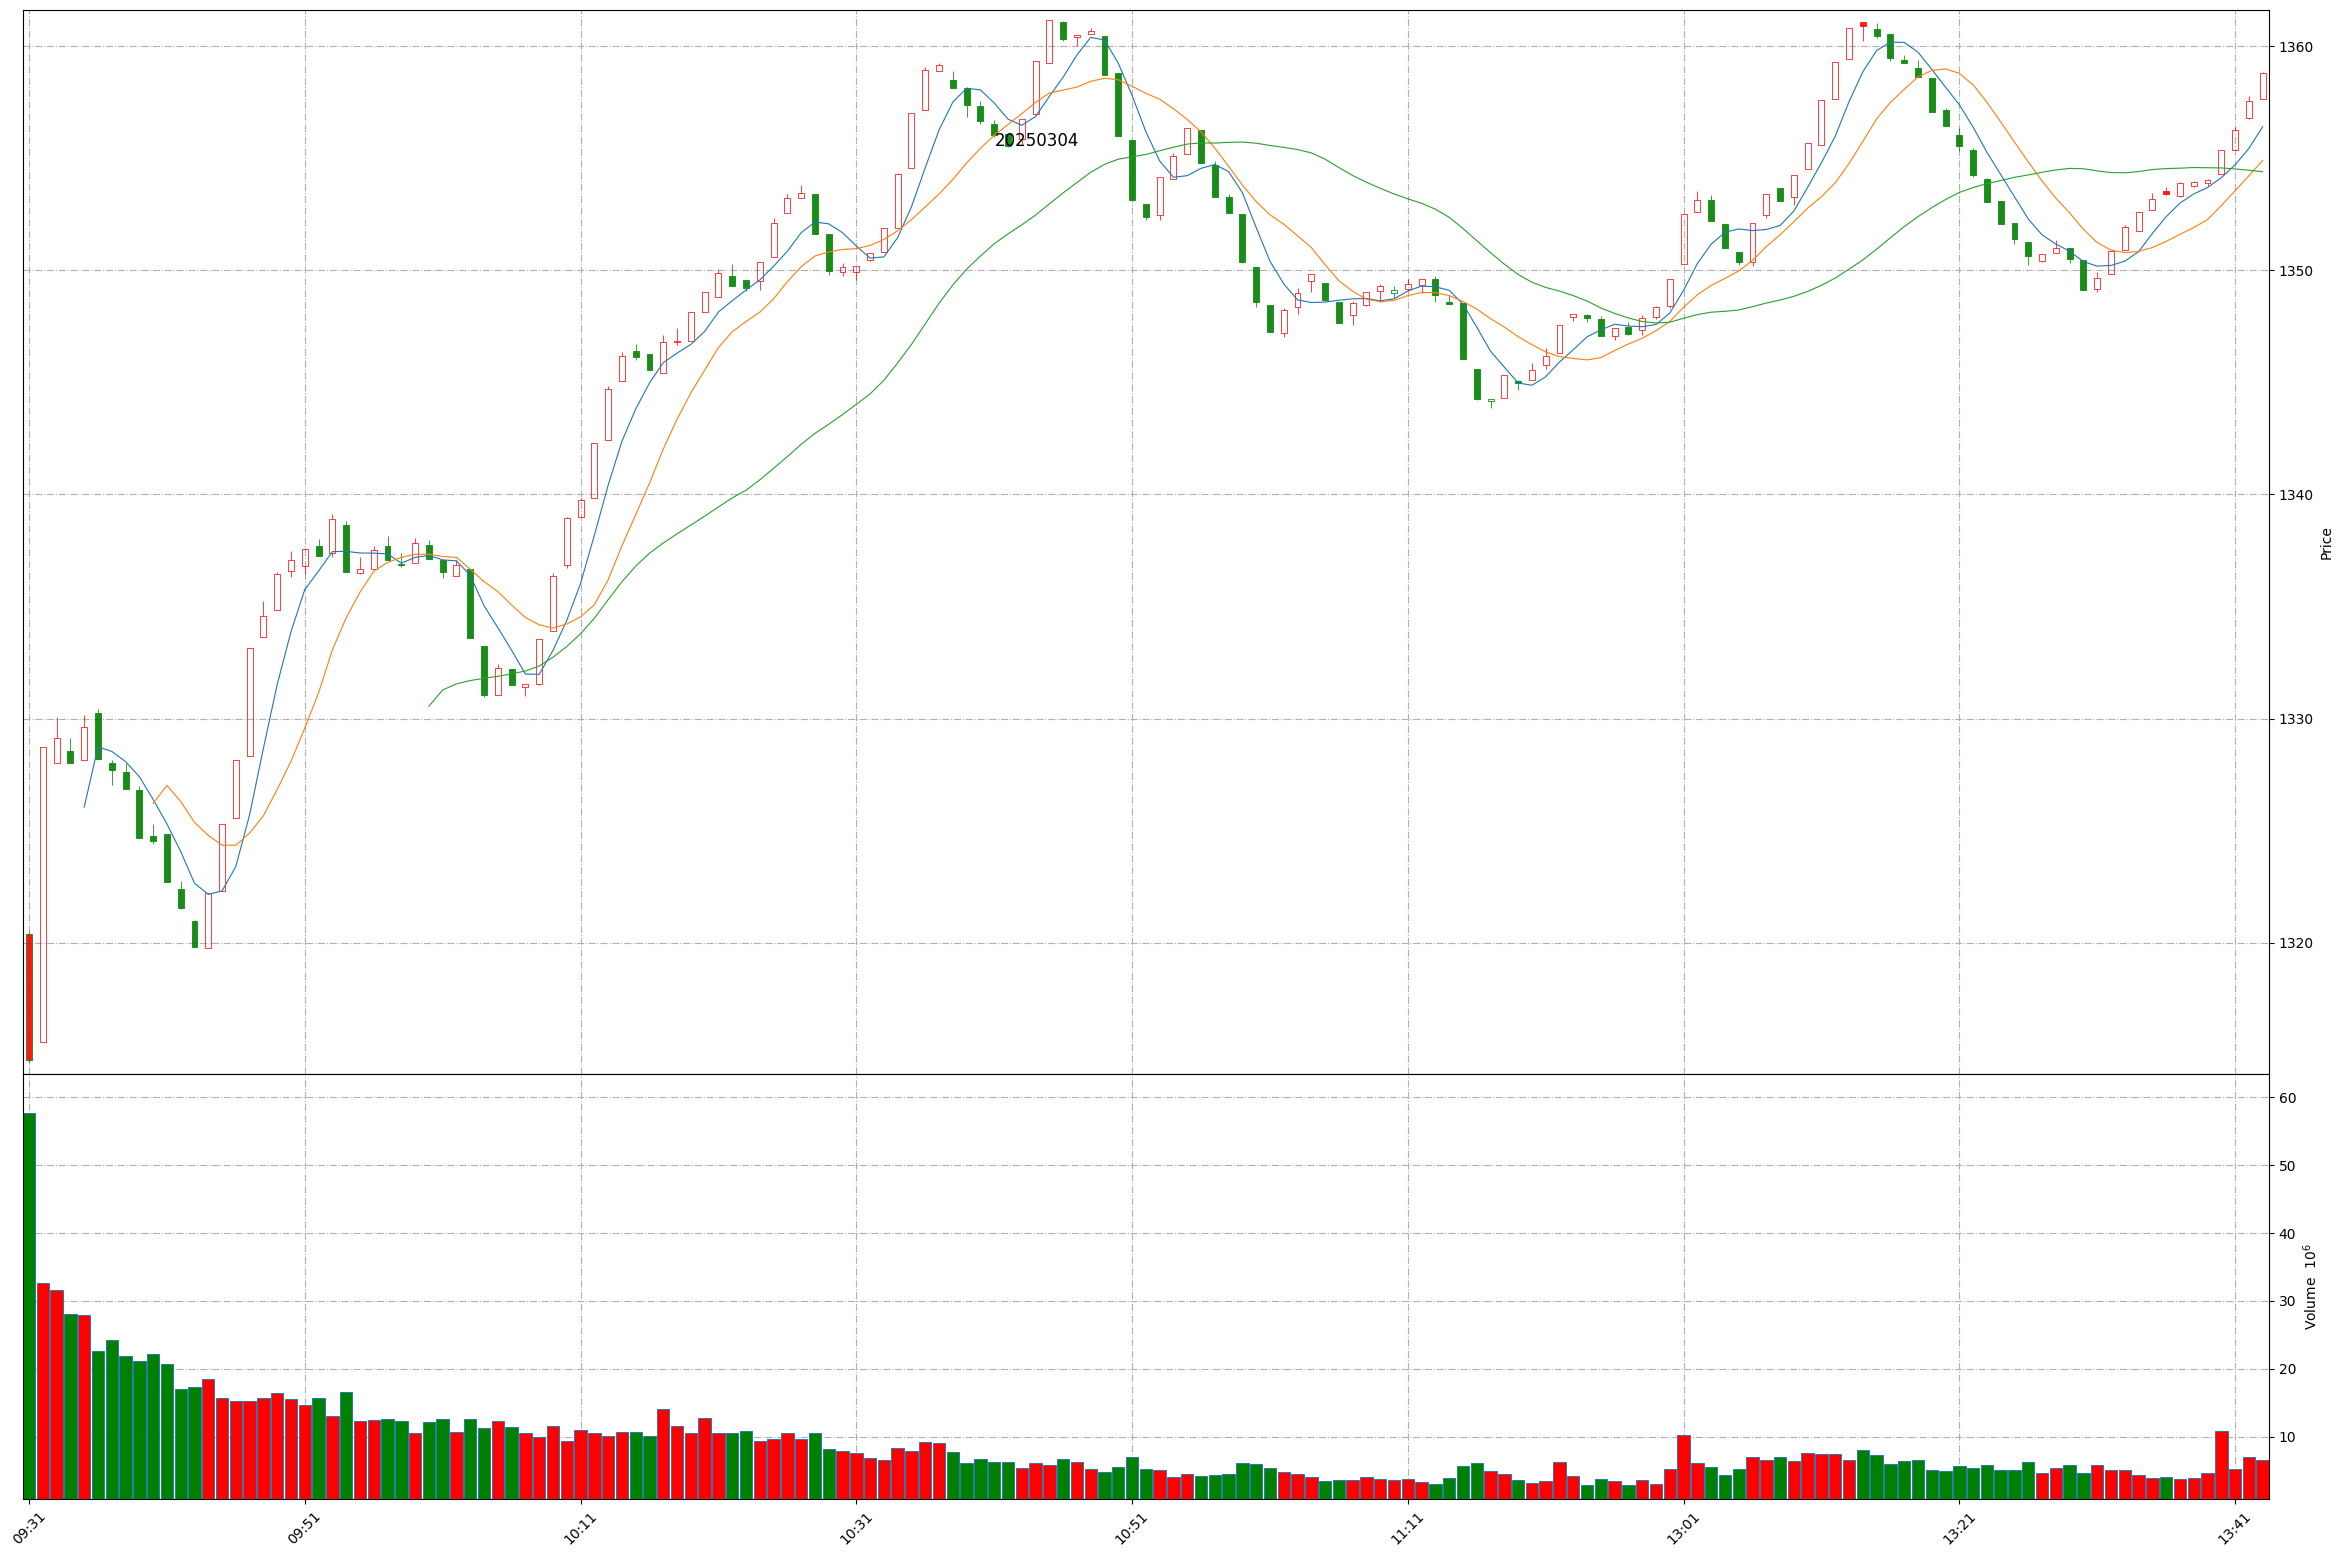
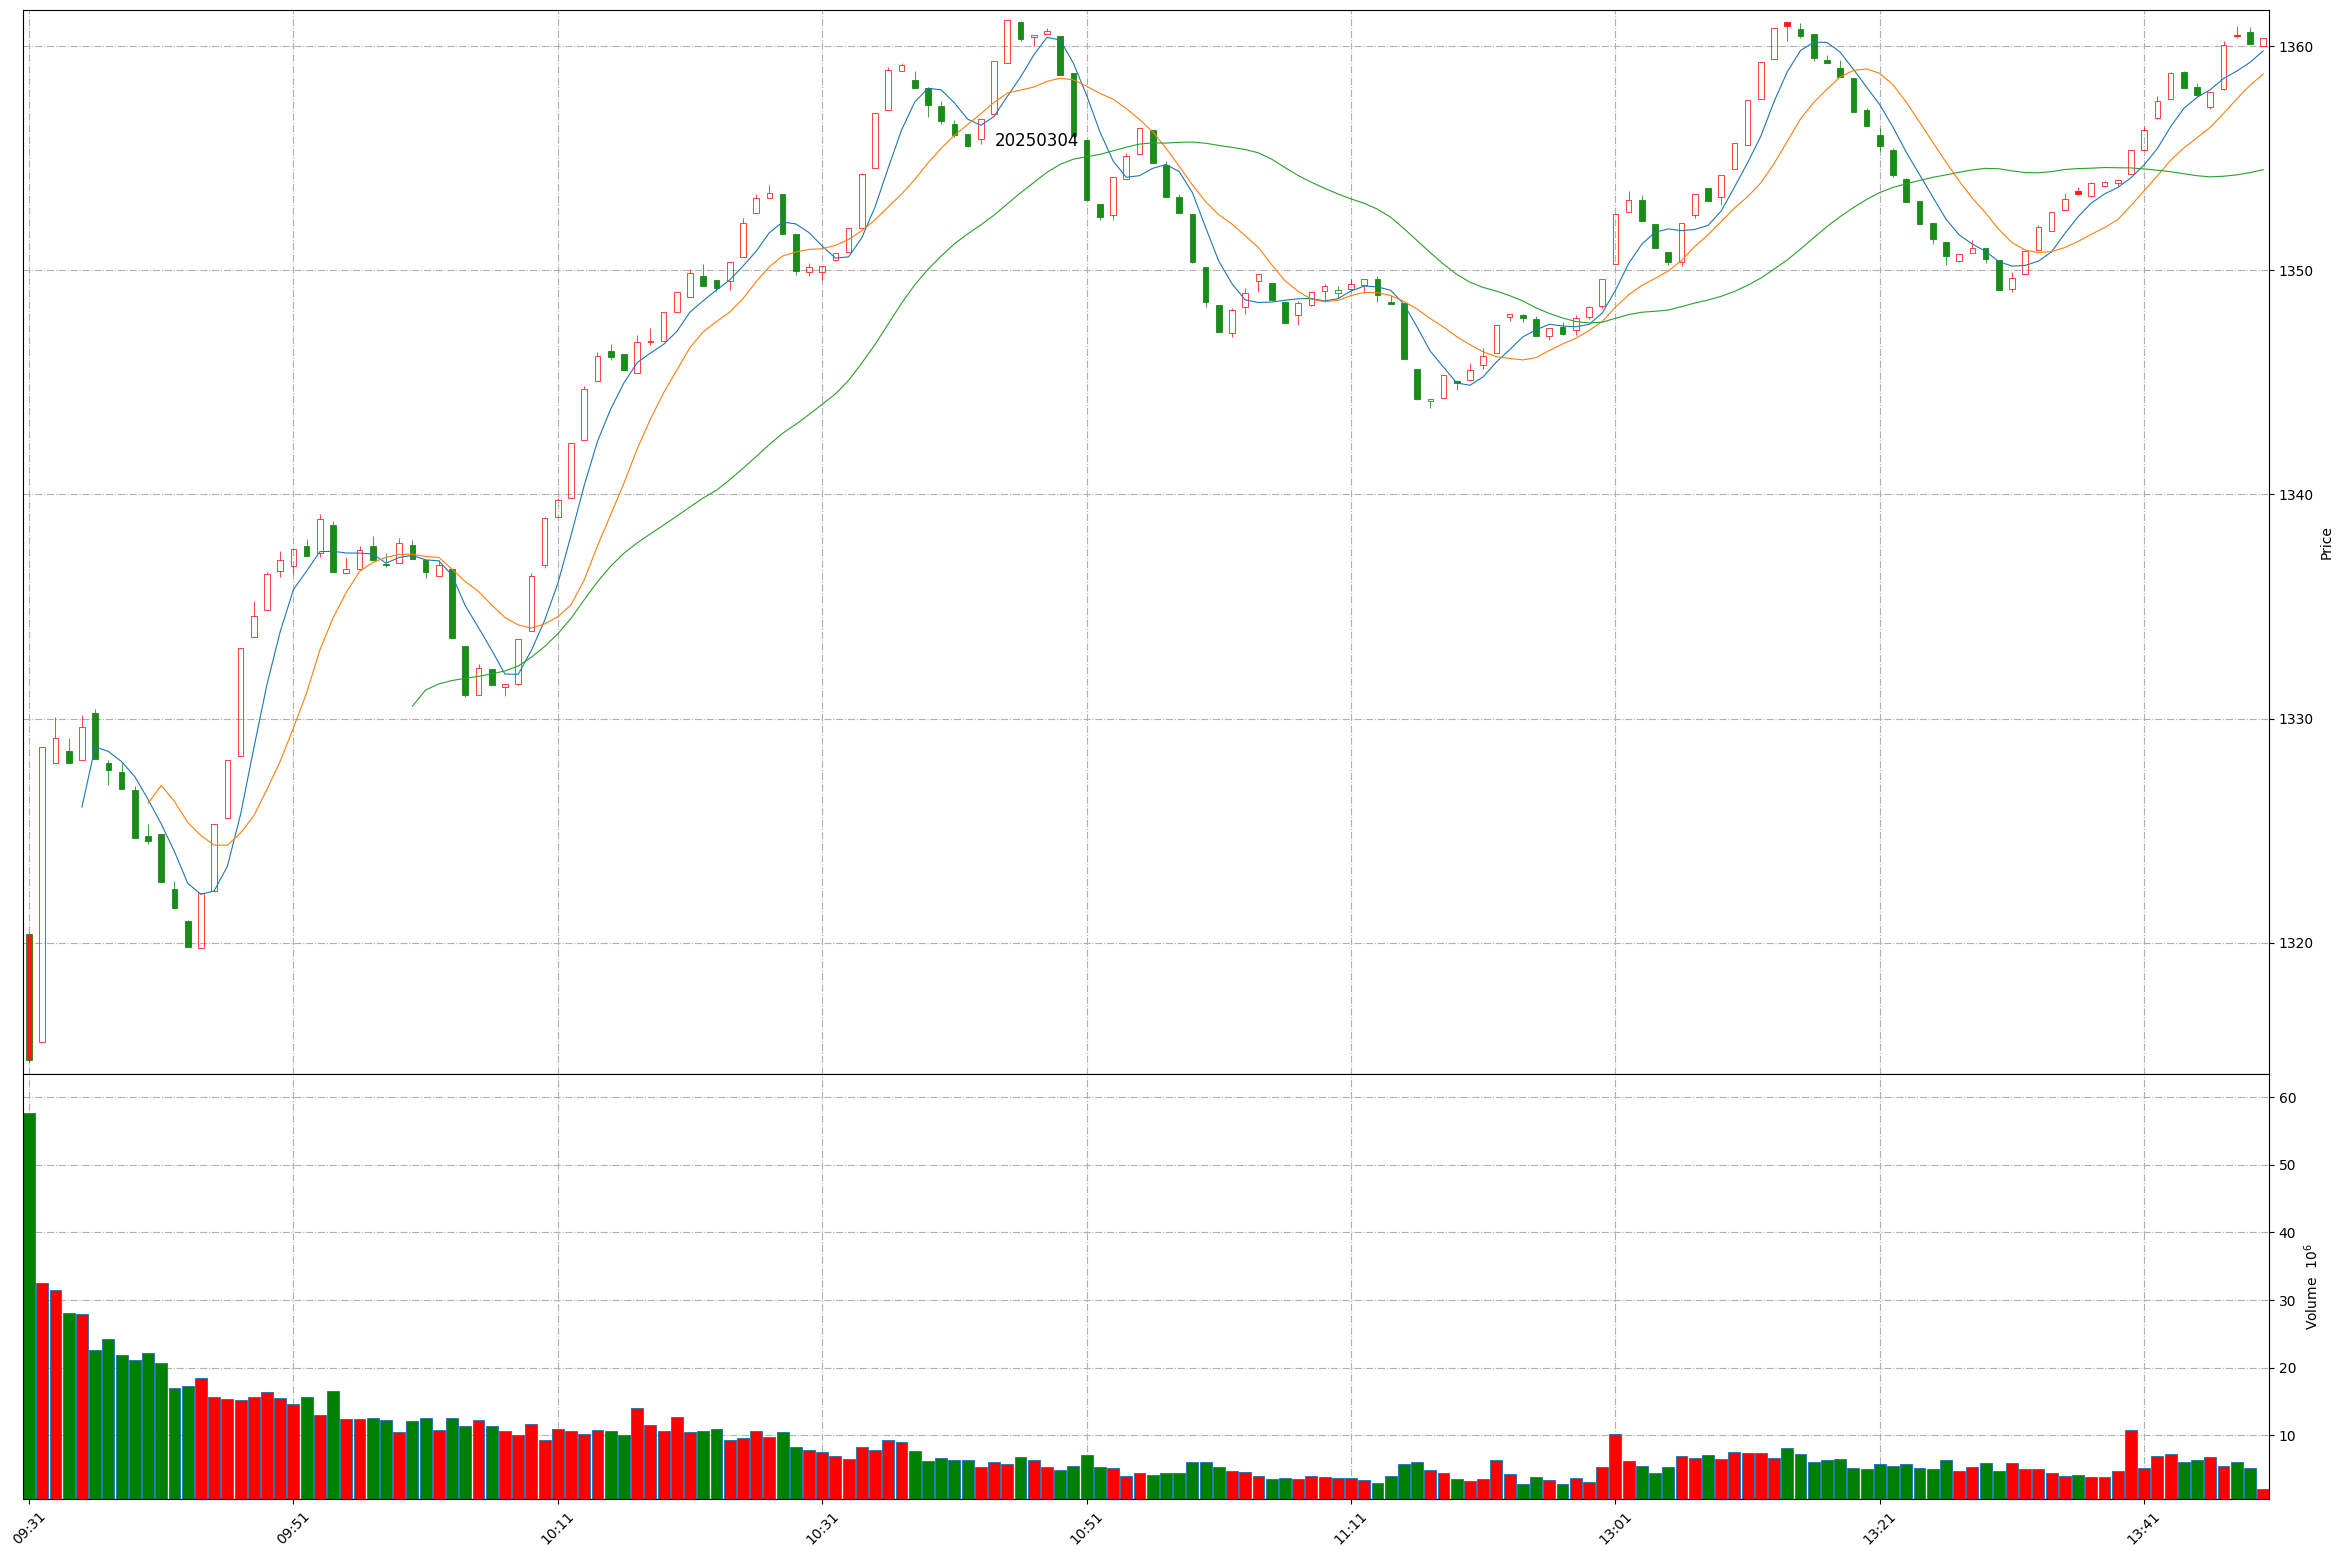
Github action update at 2025-03-04 13:49:32.

diff --git a/README.md b/README.md
@@ -1,11 +1,11 @@
 
 # Daily-A-share-market-quotes 每日 A 股指数（5min 更新）- 20250304
 
-### 上证指数 20250304 13:43
+### 上证指数 20250304 13:49
 ![](./fig/2025/3/20250304-sh000001.png)
 
-### 深证成指 20250304 13:43
+### 深证成指 20250304 13:49
 ![](./fig/2025/3/20250304-sz399001.png)
 
-### 北证50 20250304 13:43
+### 北证50 20250304 13:49
 ![](./fig/2025/3/20250304-bj899050.png)
